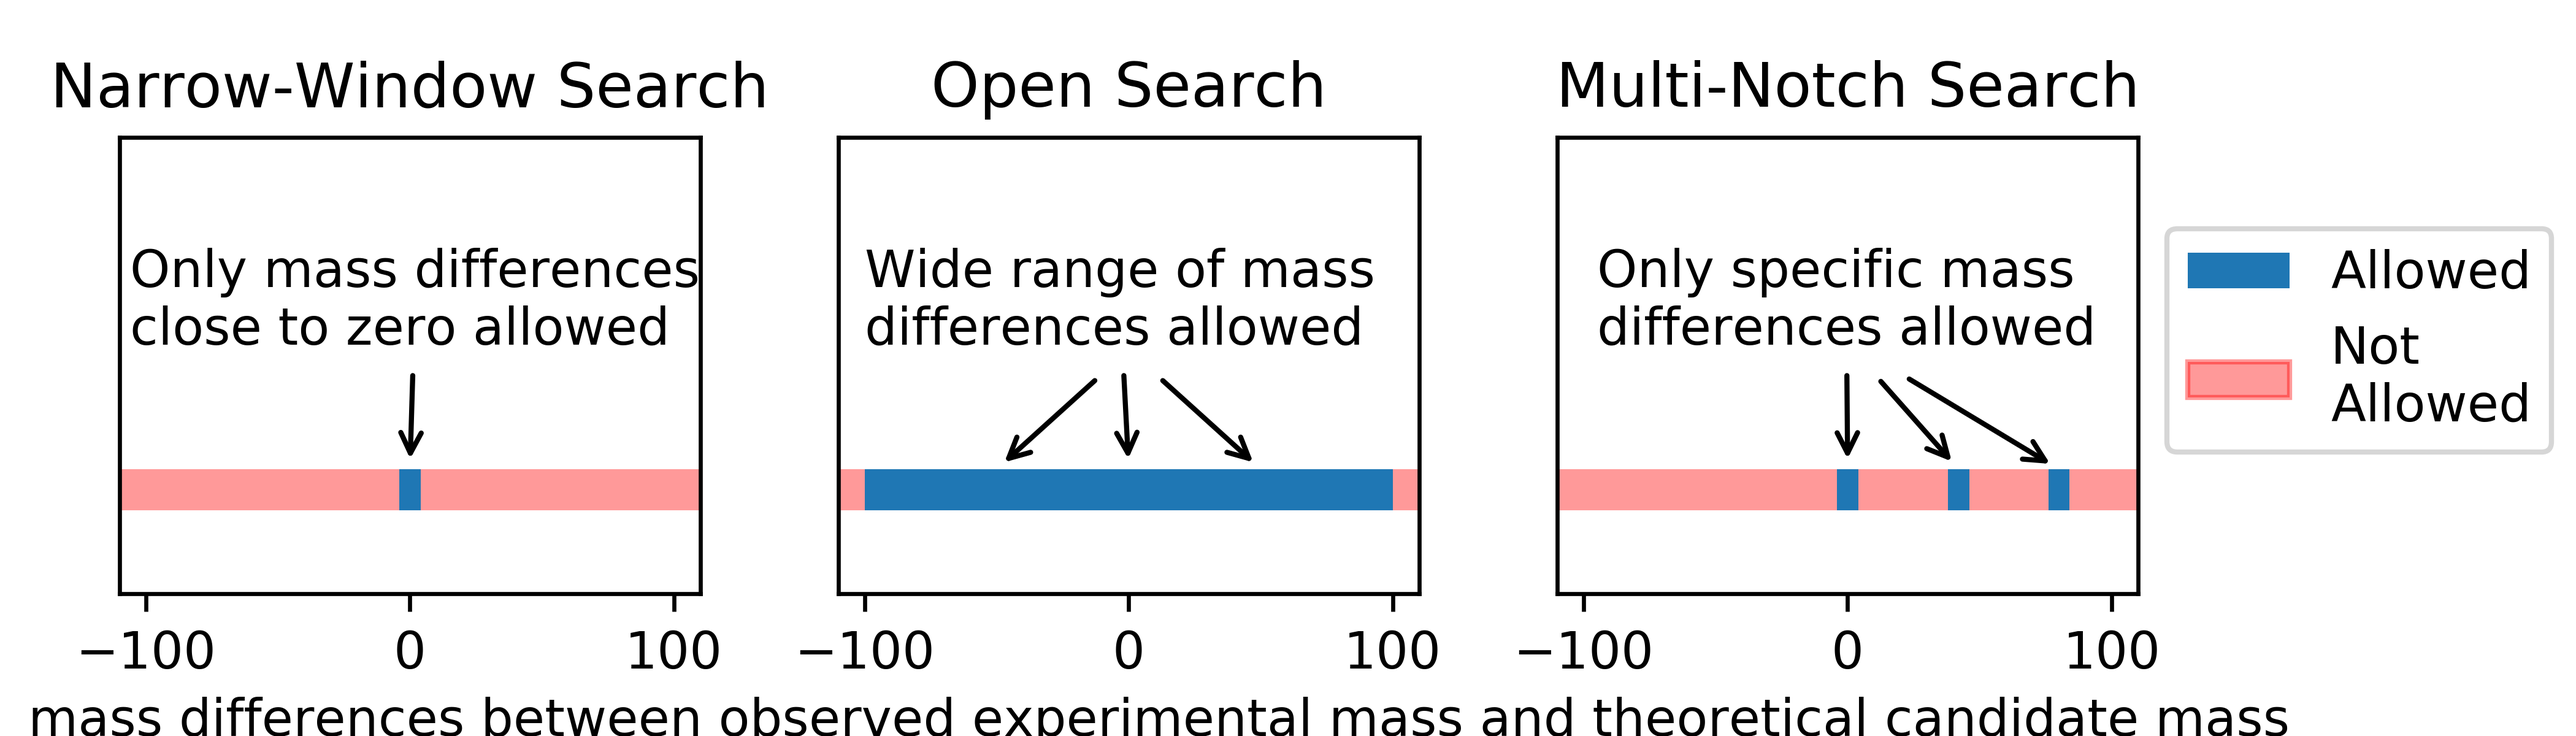
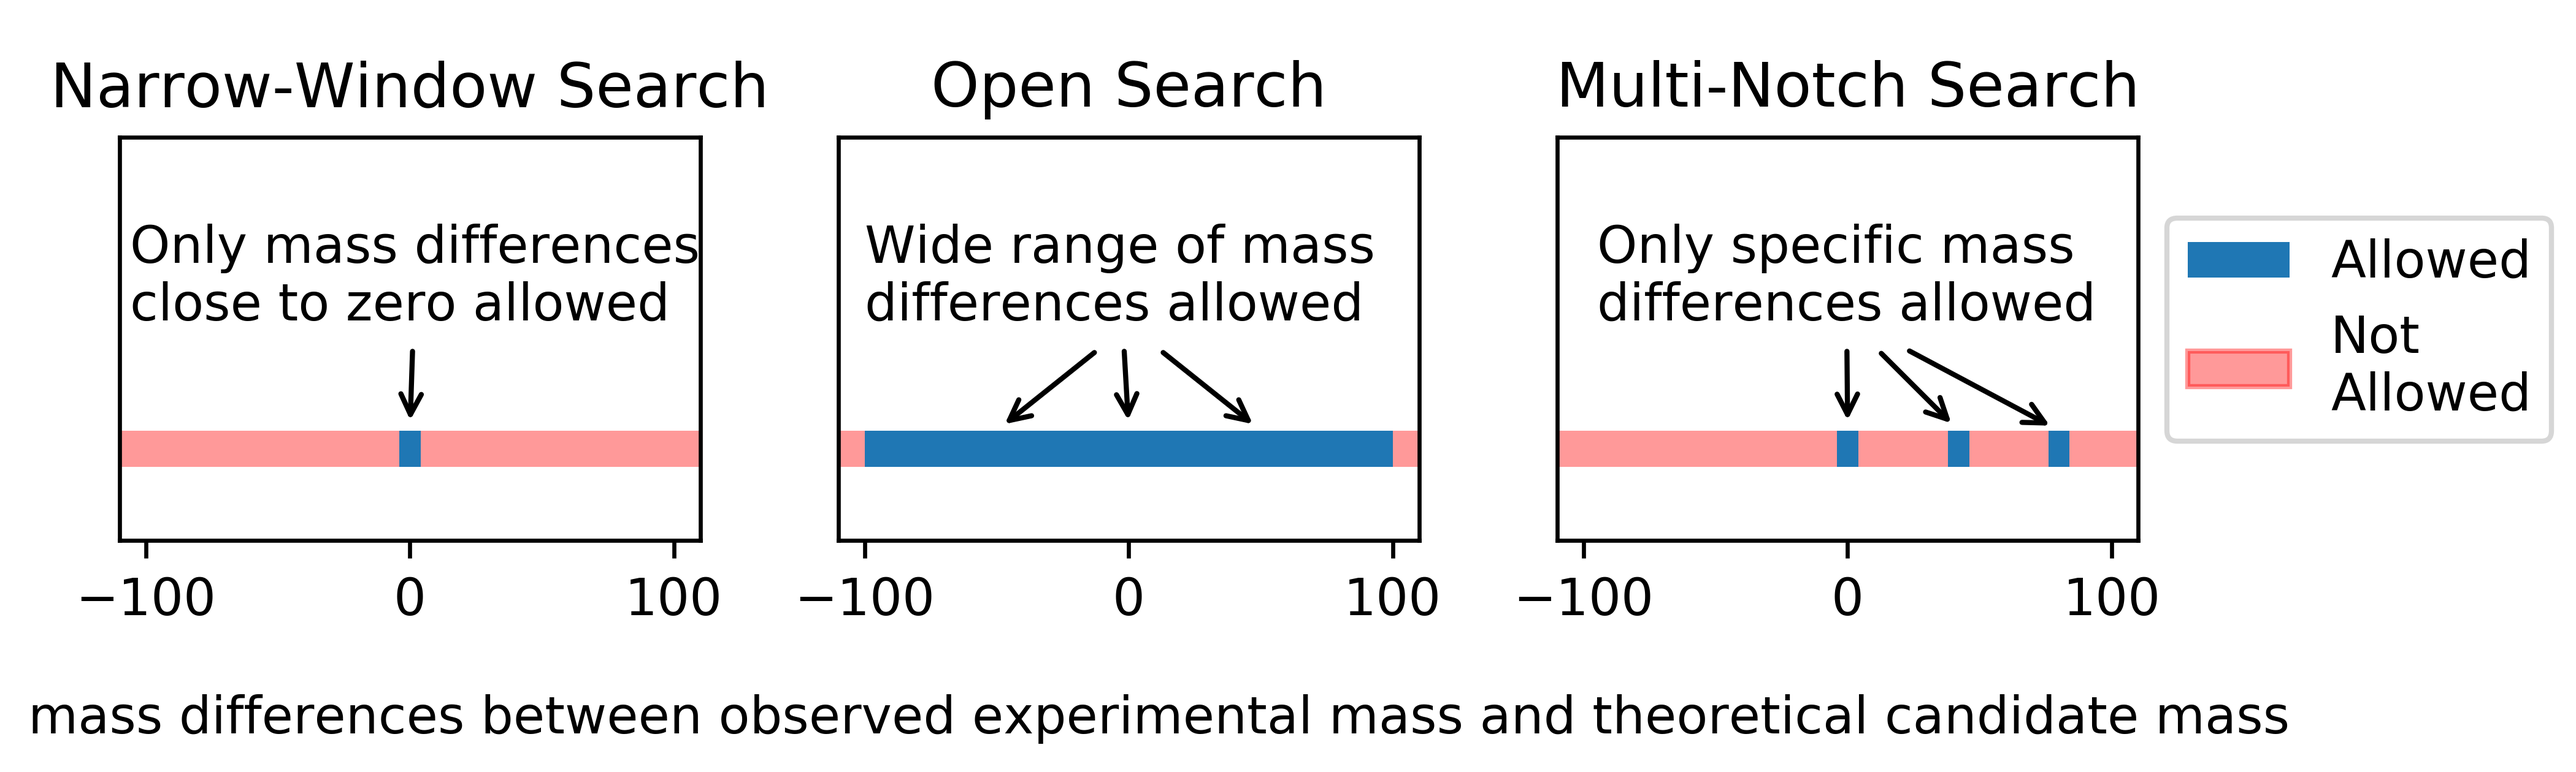
dfjkdsjf

diff --git a/paper.tex b/paper.tex
@@ -57,7 +57,7 @@ Finally, PTMs that are similar in mass, such as phosphorylation (79.9663 Da) and
 These limitations motivated the work described here.
 
 The enhanced G-PTM-D workflow is presented in Figure~\ref{fgr:diagram}.
-Spectral calibration is essential for distinguishing modifications with similar mass, and so we recommend running the G-PTM-D procedure on calibrated spectra files: for this purpose we implemented a calibration procedure in MetaMorpheus.
+Spectral calibration is essential for distinguishing modifications with similar mass, and so we recommend running the G-PTM-D procedure on calibrated spectra files: for this purpose we implemented a post-acquisition spectral calibration procedure.
 To address the long search times of the open search, we replace the search in the first stage by a specialized search called a multi-notch search that only allows specific mass differences which correspond to pre-selected masses (e.g. PTMs and amino acids).
 This change improves the specificity of the search and significantly decreases search time.
 The database augmentation step is similar to the original G-PTM-D procedure, but the modification list is significantly expanded to accommodate modifications such as chemical adducts, glycosylations, lipids, and other important modifications.
@@ -77,13 +77,17 @@ MetaMorpheus is freely available at \url{https://github.com/smith-chem-wisc/Meta
 MetaMorpheus heavily utilizes an auxiliary library called mzLib, which is a vast library of software tools for analyzing and processing mass spectral data.
 mzLib can be found at \url{https://github.com/smith-chem-wisc/mzLib}.
 
-Three multi-fraction mammalian datasets with deep proteome coverage were used to evaluate performance.
-These tryptically digested cell lysates correspond to 28 fractions from human Jurkat cells and 9 fractions from each of two different pancreatic islets from two species of mice.
-These datasets are available at \url{https://db.systemsbiology.net/sbeams/cgi/PeptideAtlas/PASS_View?identifier=PASS00215} and \url{https://db.systemsbiology.net/sbeams/cgi/PeptideAtlas/PASS_View?identifier=PASS00470}, and are described in detail elsewhere~\citep{Sheynkman2013, Shortreed_2015, Cesnik_2016}.
+A multi-fraction mammalian dataset with deep proteome coverage was used to evaluate performance.
+This tryptically digested cell lysate corresponds to 28 fractions from human Jurkat cells.
+The dataset is available at \url{https://db.systemsbiology.net/sbeams/cgi/PeptideAtlas/PASS_View?identifier=PASS00215}, and are described in detail elsewhere~\citep{Sheynkman2013, Shortreed_2015, Cesnik_2016}.
 
-UniProt XML protein databases used were downloaded on Sept 14, 2017, and contain only reviewed human/mouse/contaminant proteins.
+UniProt XML protein databases used were downloaded on Sept 14, 2017, and contain only reviewed human/contaminant proteins.
 
 The database augmentation step allowed 209 modification types, including PTMs, adducts, and chemical modifications. See Supplementary Table 1 for a complete listing.
+
+The data analysis was performed using MetaMorpheus Version: 0.0.201.0.
+The following search settings were used: protease = trypsin; maximum missed cleavages = 2; minimum peptide length = 5; maximum peptide length = unspecified; initiator methionine behavior = Variable; fixed modifications = Carbamidomethyl of C; variable modifications = Oxidation of M; max modification isoforms = 4096.
+Data files were processed on a Dell Inc. Precision Tower 7910 computer using Windows version 6.2.9200.0 with a 64-Bit processor and 24 cores operating at 2.993GHz and 128GB installed RAM.
 
 \section{Results and Discussion}
 
@@ -187,7 +191,7 @@ These plots clearly show that numerous peptides have missed monoisotopic peaks, 
 
 \begin{figure}[H]
 \includegraphics{fig4jurkat-1012.png}
-\caption{Histograms of PSM mass differences found in various dalton ranges. MM, Missed Monoisotopic peak; Asp, Aspartic Acid; Asn, Asparagine; Glu, Glutamic Acid; Gln, Glutamine; Xle, Leucine/Isoleucine; Val, Valine; Thr, Threonine; Pro, Proline.}
+\caption{Histograms of PSM mass differences found in various Dalton ranges. MM, Missed Monoisotopic peak; Asp, Aspartic Acid; Asn, Asparagine; Glu, Glutamic Acid; Gln, Glutamine; Xle, Leucine/Isoleucine; Val, Valine; Thr, Threonine; Pro, Proline.}
 \label{fig:fig4jurkat-1012}
 \end{figure}
 
@@ -200,8 +204,9 @@ To illustrate the described advantages, we compared the three types of searches 
 The limited notch search yields the largest number of confidently identified PSMs with only a small fraction being misassigned.
 We consider PSMs to be misassigned if the G-PTM-D procedure determines a higher-scoring modified peptide for a PSM (see the last section for details).
 One example of a misassigned PSM, in the 2.5 Da Search, is the example where the correct identification has oxidation and ammonia loss, but was identified as an unmodified peptide with score 9.039 and mass difference of -1.0334 Da, with sequence \texttt{QAFDDAIAELDTLNEDSYK}, in Jurkat fraction 9 scan 20962.
-With G-PTM-D added modifications, the correct peptide is identified with sequence \texttt{[Ammonia los]QAFDDAIAELDTLNEDSY[Oxidation]K}. It has a mass difference of -0.0017(-0.7946 ppm) and a score of 19.222.
-While this kind of misassignment is not possible in the 5ppm narrow-window search, such missed monoisotopes are often assigned to a wrong sequence.
+With G-PTM-D added modifications, the correct peptide is identified with sequence \texttt{[Ammonia loss]QAFDDAIAELDTLNEDSY[Oxidation]K}.
+It has a mass difference of -0.0017(-0.7946 ppm) and a score of 19.222.
+While this kind of misassignment is not possible in the 5ppm narrow-window search, a different misassignment is common: scans with precursor mass errors due to misidentified monoisotopic peaks are often assigned to a wrong sequence.
 This explains the higher number of misassignments in the 5ppm search over the number in the multi-notch search.
 Finally, even the multi-notch search has some misassignments.
 One example, in Jurkat fraction 6 scan 15602, is the wrong identification of \texttt{SIQEIQELDK[acetyl]DDESLR} with a score of 10.153, when the correct identification, after the G-PTM-D procedure, is \texttt{S[acetyl]IQEIQELDKDDESLR} with score 16.249, where the masses are identical.
@@ -272,7 +277,7 @@ There are at least three different peptides being co-isolated and co-fragmented,
 \end{figure}
 
 In a conventional search, only the isolation m/z value of 726.65 would be used to select a range of theoretical peptides for comparison.
-Assuming correct de-isotoping and charge state calculation, the mass 1447.74 Da would be searched.
+Assuming correct deisotoping and charge state calculation, the mass 1447.74 Da would be searched.
 However, all peptides in the range 725.4 to 727.9 Th are co-fragmented and a better solution would be to use all co-isolated precursor masses.
 In MetaMorpheus, for each MS2 scan, the corresponding MS1 scan is deconvoluted and the complete list of precursors is gathered for the range surrounding the isolated precursor ($\pm 1.25$ Th).
 Each deconvoluted mass is used to select a range of theoreticals to use for identification.
@@ -308,18 +313,7 @@ It is evident from these histograms that the phosphorylation and sulfonation pea
 \end{figure}
 
 The next step, database augmentation, outputs significantly different augmented databases because of the difference between accepted mass differences in the open and the multi-notch searches.
-At this point, another advantage of the enhanced approach is clear; the overall search time dropped significantly, from 35 hours to 4 hours for all datasets (see Table~\ref{my-labelff}).
-
-\begin{table}[]
-\centering
-\caption{Effects of Replacing Initial Open Search by a Multi-Notch Search}
-\label{my-labelff}
-\begin{tabular}{llll}
-                      &        & Open Search & Multi-Notch Search\\
-\multirow{2}{*}{Time} & Jurkat & 22.1 hrs         & 2.9 hrs    \\
-                      & Mouse  & 13.5 hrs         & 1.2 hrs   \\
-\end{tabular}
-\end{table}
+At this point, another advantage of the enhanced approach is clear; the overall search time dropped significantly, from 22.1 hours to 2.9 hours.
 
 After the final search using the augmented database is conducted (narrow-window in the original, and limited multi-notch in the enhanced G-PTM-D), the numbers of PSMs, peptides, and proteins all increase as shown in Table~\ref{tab:table2}.
 We identified hundreds of glycosylated peptides in these unenriched samples, with many of these modifications exceeding 1000 Da, see Table~\ref{tab:table3}.
@@ -330,16 +324,12 @@ It is fast enough included as part of every regular work-flow, and will yield si
 \centering
 \caption{Enhanced G-PTM-D overall improvement numbers}
 \label{tab:table2}
-\begin{tabular}{llll}
-                      &        & Original G-PTM-D & Enhanced G-PTM-D\\
-\multirow{2}{*}{PSMs} & Jurkat  & 210566   &  220574  \\
-                      & Mouse    & 162473   &   170743 \\
-\multirow{2}{*}{Unique Peptides} & Jurkat  & 85542   &  101980  \\
-                      & Mouse    & 56235   &   66365 \\
-\multirow{2}{*}{Proteins} & Jurkat  & 9254   &  9587  \\
-                      & Mouse    & 7874   &   8151 \\
-\multirow{2}{*}{PTM containing peptides} & Jurkat  & 12041   &  22173  \\
-                      & Mouse    & 14547   &   18487 \\
+\begin{tabular}{lll}
+                             & Original G-PTM-D & Enhanced G-PTM-D\\
+PSMs &  210566   &  220574  \\
+Unique Peptides &  85542   &  101980  \\
+Proteins &  9254   &  9587  \\
+PTM containing peptides &  12041   &  22173  \\
 \end{tabular}
 \end{table}
 

diff --git a/FigureGeneration/fig3-searchTypes.py b/FigureGeneration/fig3-searchTypes.py
@@ -3,7 +3,7 @@ import matplotlib.pyplot as plt
 import matplotlib.patches as patches
 
 
-height = 2
+height = 2.1
 width = 7 
 fig = plt.figure(figsize=(width, height))
 
@@ -120,7 +120,7 @@ ax.get_yaxis().set_visible(False)
 
 ################
 
-fig.text(0.45, 0.00, 'mass differences between observed experimental mass and theoretical candidate mass', ha='center')
+fig.text(0.45, 0.05, 'mass differences between observed experimental mass and theoretical candidate mass', ha='center')
 
 #add red blue legend to plot
 #global x axis label instead of the three mass diff da 
@@ -137,7 +137,7 @@ plt.legend(handles=[blue_patch, red_patch],bbox_to_anchor=(1.05, 0.8), loc=2, bo
 
 plt.tight_layout()
 
-plt.subplots_adjust(right=0.83)
+plt.subplots_adjust(right=0.83, bottom = 0.3)
 
 plt.savefig(r'C:\Users\stepa\Source\StefanPaper\fig3-searchTypes.png', format='png', dpi=600)
 

diff --git a/FigureGeneration/fig7-phosphoSulfoUncalibCalib.py b/FigureGeneration/fig7-phosphoSulfoUncalibCalib.py
@@ -47,7 +47,7 @@ plt.hist(massDiffsHighConf1decoy, bins  =int((max1-min1)/0.001), range=[min1, ma
 plt.annotate('?', xy=(79.962, 22), xytext=(79.955,30), arrowprops=dict(arrowstyle="->"))
 plt.annotate('?', xy=(79.971, 20), xytext=(79.975,30), arrowprops=dict(arrowstyle="->"))
 
-plt.legend()
+plt.legend(loc=2)
 
 plt.ylabel("Count")
 plt.title("Uncalibrated")
@@ -92,7 +92,7 @@ plt.hist(massDiffsHighConf1decoy, bins  =int((max1-min1)/0.001), range=[min1, ma
 plt.annotate('sulfo', xy=(79.956, 23), xytext=(79.951,30), arrowprops=dict(arrowstyle="->"))
 plt.annotate('phospho', xy=(79.967, 28), xytext=(79.971,30), arrowprops=dict(arrowstyle="->"))
 
-plt.legend()
+plt.legend(loc=2)
 
 plt.ylabel("Count")
 plt.title("Calibrated")

diff --git a/FigureGeneration/fig2-10ppmSearchCalib.py b/FigureGeneration/fig2-10ppmSearchCalib.py
@@ -6,7 +6,7 @@ maxi = 35000
 
 
 height = 6
-width = 7 
+width =  7 
 
 f, ((ax1), (ax3)) = plt.subplots(2, 1, sharex='col', sharey='row', figsize=(width,height))
 
